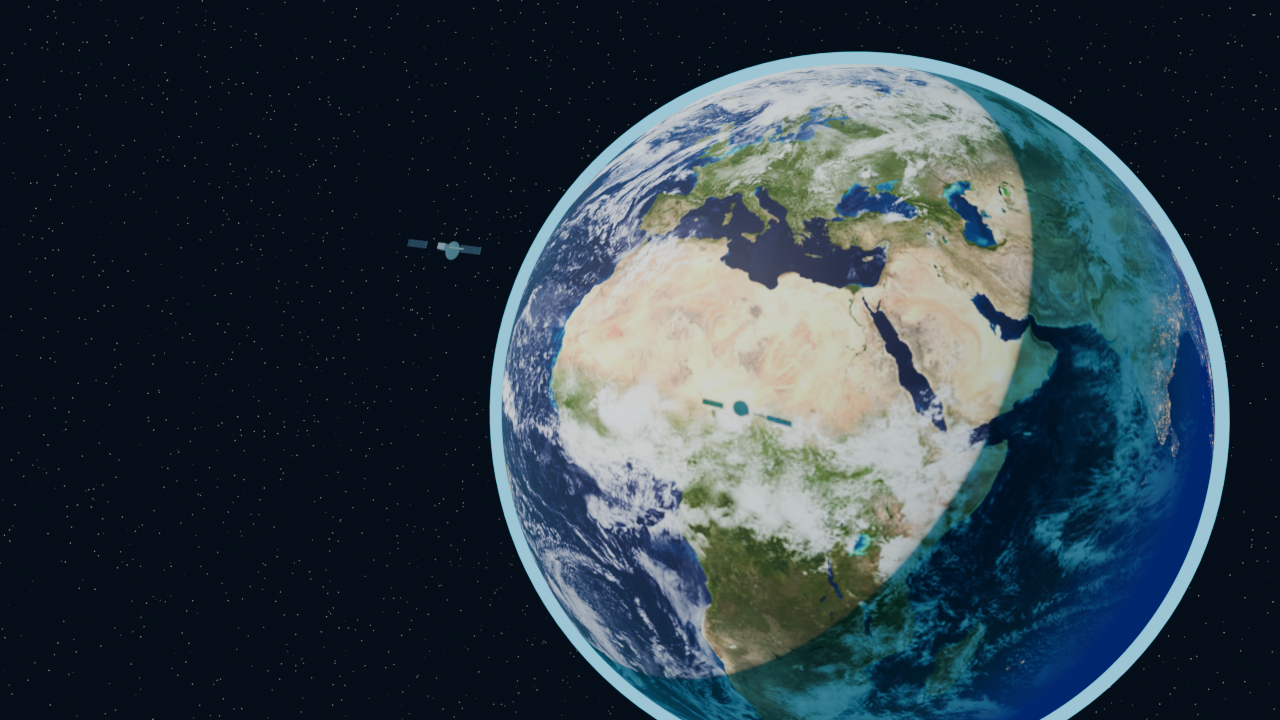
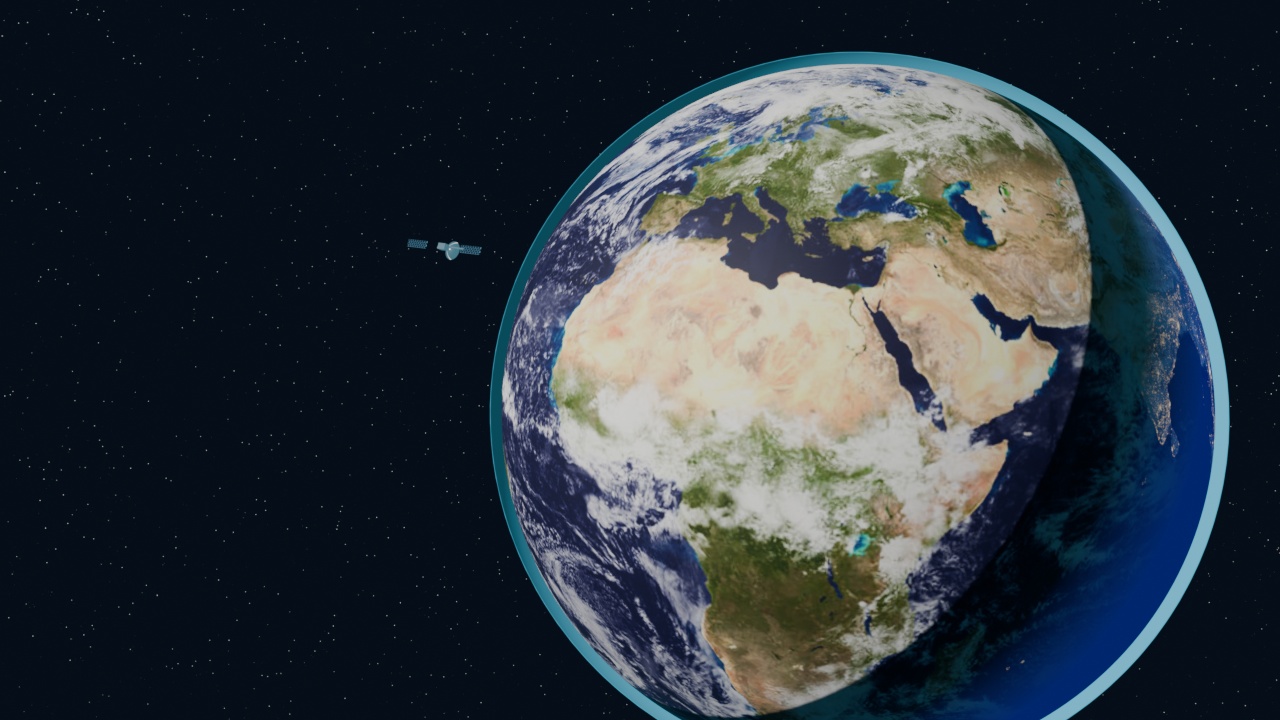
fix(web-hero-001b): visual-acceptance revision on satellite/atmosphere/starfield
Narrow polish pass on the reviewed WEB-HERO-001B scene; no composition,
geography, camera-path or scope change.

- suppress the satellite's cast shadow on Earth (visible_shadow=False on
  every part) -- it read as a stray planning-marker/overlay mark on the
  surface in review, not a deliberate detail;
- add a shared Fresnel-gated rim-light (_apply_rim_light) to the
  satellite hull and solar-panel materials for a cleaner silhouette at
  hero scale; enlarge/thicken the panel grid cells for a clearer read;
- thin and narrow the atmosphere rim, and couple its emission strength to
  the same sun-direction term the Earth terminator uses, so it fades on
  the night limb instead of glowing at a uniform detached strength;
- rebuild the starfield as two brightness-varied Voronoi layers plus a
  faint large-scale depth drift, replacing the single uniform-threshold
  layer that read as an obviously repeating procedural grid.

Re-rendered and replaced the three committed representative Cycles
evidence stills at the same frames. Phase A validator (81 checks) and
benchmark re-verified green, since the touched builder functions are
shared with benchmark_neutral.

diff --git a/hero/scripts/build_scene.py b/hero/scripts/build_scene.py
@@ -92,10 +92,52 @@ def _load_image(filename: str):
 # Materials
 # ---------------------------------------------------------------------------
 
+def _apply_rim_light(nt, spec: dict, scene_config: dict, base_shader_socket):
+    """Mix a thin Fresnel-gated edge light on top of an existing shader
+    output, and rewire Material Output to the result. A small hard-surface
+    prop (the satellite) needs this to keep a crisp, legible silhouette
+    against both deep space and a bright sunlit Earth at hero scale; a bare
+    Principled BSDF alone reads as a flat dark blob at that size. No-op
+    (returns the input unchanged) when the spec has no rim_light_color_ref.
+    """
+    rim_ref = spec.get("rim_light_color_ref")
+    if not rim_ref:
+        return base_shader_socket
+
+    nodes, links = nt.nodes, nt.links
+    output = nodes.get("Material Output")
+    rim_color = hc.palette_color(scene_config, rim_ref)
+
+    fresnel = nodes.new("ShaderNodeFresnel")
+    fresnel.location = (-250, -450)
+    fresnel.inputs["IOR"].default_value = float(spec.get("rim_light_ior", 2.2))
+
+    sharpen = nodes.new("ShaderNodeMapRange")
+    sharpen.location = (-50, -450)
+    sharpen.inputs["From Min"].default_value = float(spec.get("rim_light_falloff_min", 0.55))
+    sharpen.inputs["From Max"].default_value = 1.0
+    sharpen.clamp = True
+    links.new(fresnel.outputs["Fac"], sharpen.inputs["Value"])
+
+    rim_emission = nodes.new("ShaderNodeEmission")
+    rim_emission.location = (150, -450)
+    rim_emission.inputs["Color"].default_value = _rgba(rim_color)
+    rim_emission.inputs["Strength"].default_value = float(spec.get("rim_light_strength", 1.2))
+
+    rim_mix = nodes.new("ShaderNodeMixShader")
+    rim_mix.location = (550, -200)
+    links.new(sharpen.outputs["Result"], rim_mix.inputs["Fac"])
+    links.new(base_shader_socket, rim_mix.inputs[1])
+    links.new(rim_emission.outputs["Emission"], rim_mix.inputs[2])
+    links.new(rim_mix.outputs["Shader"], output.inputs["Surface"])
+    return rim_mix.outputs["Shader"]
+
+
 def _build_principled_material(name: str, spec: dict, scene_config: dict):
     material = bpy.data.materials.new(name=name)
     material.use_nodes = True
-    bsdf = material.node_tree.nodes.get("Principled BSDF")
+    nt = material.node_tree
+    bsdf = nt.nodes.get("Principled BSDF")
     if bsdf is None:
         return material
 
@@ -110,6 +152,8 @@ def _build_principled_material(name: str, spec: dict, scene_config: dict):
         if not _set_input(bsdf, "Emission Color", _rgba(emission)):
             _set_input(bsdf, "Emission", _rgba(emission))
         _set_input(bsdf, "Emission Strength", float(spec.get("emission_strength", 1.0)))
+
+    _apply_rim_light(nt, spec, scene_config, bsdf.outputs["BSDF"])
     return material
 
 
@@ -203,10 +247,21 @@ def _build_earth_material(name: str, spec: dict, scene_config: dict, sun_directi
     return material
 
 
-def _build_atmosphere_material(name: str, spec: dict, scene_config: dict):
+def _build_atmosphere_material(name: str, spec: dict, scene_config: dict, sun_direction):
     """Fresnel rim-glow shell: transparent facing the camera, emissive at
     grazing angles, so the atmosphere reads as a limb glow that visibly
     follows the globe instead of a flat neon outline.
+
+    The grazing-angle (Fresnel) factor alone made every previous version of
+    this shell glow at an equally uniform, thick, all-the-way-round
+    brightness regardless of where the sun was -- exactly the "detached
+    graphic outline" look this was flagged for. A real limb glow is
+    sunlight scattering in the atmosphere, so it must fade out on the night
+    side: the emission's *strength* (not the transparent/emissive mix
+    itself, which stays a pure viewing-angle effect) is additionally scaled
+    by the same dot(normal, sun_direction) term the Earth material uses,
+    remapped so the day limb stays bright and the night limb only keeps a
+    faint terminator-adjacent hint rather than going fully dark.
     """
     material = bpy.data.materials.new(name=name)
     material.use_nodes = True
@@ -215,16 +270,45 @@ def _build_atmosphere_material(name: str, spec: dict, scene_config: dict):
     nodes.clear()
 
     output = nodes.new("ShaderNodeOutputMaterial")
-    output.location = (600, 0)
+    output.location = (750, 0)
 
     transparent = nodes.new("ShaderNodeBsdfTransparent")
     transparent.location = (0, -150)
 
     emission = nodes.new("ShaderNodeEmission")
-    emission.location = (0, 150)
+    emission.location = (150, 150)
     color = hc.palette_color(scene_config, spec.get("rim_color_ref", "atmosphere_cyan"))
     emission.inputs["Color"].default_value = _rgba(color)
-    emission.inputs["Strength"].default_value = float(spec.get("strength", 2.4))
+
+    day_gate = nodes.new("ShaderNodeMath")
+    day_gate.operation = "MULTIPLY"
+    day_gate.location = (-50, 300)
+    day_gate.inputs[0].default_value = float(spec.get("strength", 1.6))
+    links.new(day_gate.outputs["Value"], emission.inputs["Strength"])
+
+    geometry = nodes.new("ShaderNodeNewGeometry")
+    geometry.location = (-450, 400)
+    sun_vec = nodes.new("ShaderNodeCombineXYZ")
+    sun_vec.location = (-450, 550)
+    sun_vec.inputs[0].default_value = float(sun_direction[0])
+    sun_vec.inputs[1].default_value = float(sun_direction[1])
+    sun_vec.inputs[2].default_value = float(sun_direction[2])
+    sun_dot = nodes.new("ShaderNodeVectorMath")
+    sun_dot.operation = "DOT_PRODUCT"
+    sun_dot.location = (-250, 450)
+    links.new(geometry.outputs["Normal"], sun_dot.inputs[0])
+    links.new(sun_vec.outputs["Vector"], sun_dot.inputs[1])
+
+    night_hint = float(spec.get("night_hint", 0.12))
+    day_night_gate = nodes.new("ShaderNodeMapRange")
+    day_night_gate.location = (-50, 450)
+    day_night_gate.inputs["From Min"].default_value = -0.6
+    day_night_gate.inputs["From Max"].default_value = 0.3
+    day_night_gate.inputs["To Min"].default_value = night_hint
+    day_night_gate.inputs["To Max"].default_value = 1.0
+    day_night_gate.clamp = True
+    links.new(sun_dot.outputs["Value"], day_night_gate.inputs["Value"])
+    links.new(day_night_gate.outputs["Result"], day_gate.inputs[1])
 
     fresnel = nodes.new("ShaderNodeFresnel")
     fresnel.location = (-250, 0)
@@ -239,7 +323,7 @@ def _build_atmosphere_material(name: str, spec: dict, scene_config: dict):
     falloff.clamp = True
 
     mix = nodes.new("ShaderNodeMixShader")
-    mix.location = (300, 0)
+    mix.location = (450, 0)
 
     links.new(fresnel.outputs["Fac"], falloff.inputs["Value"])
     links.new(falloff.outputs["Result"], mix.inputs["Fac"])
@@ -298,6 +382,8 @@ def _build_solar_panel_material(name: str, spec: dict, scene_config: dict):
     links.new(bsdf.outputs["BSDF"], mix.inputs[1])
     links.new(grid_emission.outputs["Emission"], mix.inputs[2])
     links.new(mix.outputs["Shader"], output.inputs["Surface"])
+
+    _apply_rim_light(nt, spec, scene_config, mix.outputs["Shader"])
     return material
 
 
@@ -308,7 +394,7 @@ def _build_material(name: str, spec: dict, scene_config: dict, sun_direction=(0.
     if kind == "earth_day_night":
         return _build_earth_material(name, spec, scene_config, sun_direction)
     if kind == "atmosphere_shell":
-        return _build_atmosphere_material(name, spec, scene_config)
+        return _build_atmosphere_material(name, spec, scene_config, sun_direction)
     if kind == "solar_panel":
         return _build_solar_panel_material(name, spec, scene_config)
     raise ValueError("unsupported material type " + repr(kind) + " for " + name)
@@ -360,6 +446,17 @@ def _build_satellite(spec: dict, materials: dict):
     panel_material = materials.get(spec.get("panel_material"))
     dish_material = materials.get(spec.get("dish_material"), bus_material)
 
+    # This lane is pre-data: a satellite silhouette cast onto Earth as a real
+    # shadow reads, at review size, like a stray AOI/placement marker rather
+    # than an intentional camera-framing beauty detail. Suppress shadow rays
+    # from every satellite part so the satellite still looks correctly lit
+    # itself but never marks the surface below it.
+    def _no_cast_shadow(obj):
+        try:
+            obj.visible_shadow = False
+        except AttributeError:
+            pass
+
     bpy.ops.mesh.primitive_cube_add(size=1.0)
     bus = bpy.context.active_object
     bus.name = spec["id"] + "_bus"
@@ -369,6 +466,7 @@ def _build_satellite(spec: dict, materials: dict):
         polygon.use_smooth = False
     if bus_material:
         bus.data.materials.append(bus_material)
+    _no_cast_shadow(bus)
 
     for side, sign in (("pos", 1.0), ("neg", -1.0)):
         bpy.ops.mesh.primitive_cube_add(size=1.0)
@@ -379,6 +477,7 @@ def _build_satellite(spec: dict, materials: dict):
         panel.location = (sign * (bus_size[0] / 2 + panel_size[0] / 2 + 0.015), 0.0, 0.0)
         if panel_material:
             panel.data.materials.append(panel_material)
+        _no_cast_shadow(panel)
 
     bpy.ops.mesh.primitive_cone_add(
         radius1=dish_radius, radius2=dish_radius * 0.12, depth=dish_radius * 0.55, vertices=28
@@ -393,6 +492,7 @@ def _build_satellite(spec: dict, materials: dict):
         polygon.use_smooth = True
     if dish_material:
         dish.data.materials.append(dish_material)
+    _no_cast_shadow(dish)
 
     bpy.ops.mesh.primitive_cylinder_add(radius=0.012, depth=bus_size[2] * 1.6, vertices=10)
     boom = bpy.context.active_object
@@ -402,6 +502,7 @@ def _build_satellite(spec: dict, materials: dict):
     boom.location = (bus_size[0] / 2 + bus_size[2] * 0.8, 0.0, 0.0)
     if bus_material:
         boom.data.materials.append(bus_material)
+    _no_cast_shadow(boom)
 
     scale = float(spec.get("scale", 1.0))
     root.scale = (scale, scale, scale)
@@ -574,37 +675,104 @@ def _build_world(scene_config: dict, scene_spec: dict | None = None) -> None:
     stars = world_spec.get("stars")
     if stars and stars.get("enabled", True):
         tex_coord = nodes.new("ShaderNodeTexCoord")
-        tex_coord.location = (-900, -300)
-
-        voronoi = nodes.new("ShaderNodeTexVoronoi")
-        voronoi.location = (-650, -300)
-        try:
-            voronoi.voronoi_dimensions = "3D"
-        except TypeError:
-            pass
-        _set_input(voronoi, "Scale", float(stars.get("scale", 260.0)))
-        _set_input(voronoi, "Randomness", float(stars.get("randomness", 1.0)))
-
-        star_ramp = nodes.new("ShaderNodeValToRGB")
-        star_ramp.location = (-400, -300)
-        threshold = float(stars.get("point_size", 0.045))
+        tex_coord.location = (-1100, -300)
         star_color = hc.palette_color(scene_config, stars.get("color_ref", "neutral_light"))
-        star_ramp.color_ramp.elements[0].position = 0.0
-        star_ramp.color_ramp.elements[0].color = _rgba(star_color)
-        star_ramp.color_ramp.elements[1].position = max(0.001, threshold)
-        star_ramp.color_ramp.elements[1].color = (0.0, 0.0, 0.0, 1.0)
+
+        def _star_layer(y, scale, point_size, brightness_lo, brightness_hi):
+            # A single uniform Voronoi threshold makes every point the same
+            # size and brightness, which reads as an obvious repeating grid
+            # ("procedural cheapness"/banding) rather than a real field. Each
+            # layer instead pulls its own per-cell brightness from Voronoi's
+            # Color output, so points vary the way real star magnitudes do.
+            voronoi = nodes.new("ShaderNodeTexVoronoi")
+            voronoi.location = (-850, y)
+            try:
+                voronoi.voronoi_dimensions = "3D"
+            except TypeError:
+                pass
+            _set_input(voronoi, "Scale", float(scale))
+            _set_input(voronoi, "Randomness", 1.0)
+
+            ramp = nodes.new("ShaderNodeValToRGB")
+            ramp.location = (-600, y)
+            ramp.color_ramp.elements[0].position = 0.0
+            ramp.color_ramp.elements[0].color = (1.0, 1.0, 1.0, 1.0)
+            ramp.color_ramp.elements[1].position = max(0.001, float(point_size))
+            ramp.color_ramp.elements[1].color = (0.0, 0.0, 0.0, 1.0)
+            distance_out = "Distance" if "Distance" in voronoi.outputs else voronoi.outputs[0].name
+            links.new(voronoi.outputs[distance_out], ramp.inputs["Fac"])
+
+            brightness = nodes.new("ShaderNodeMapRange")
+            brightness.location = (-600, y - 130)
+            brightness.inputs["From Min"].default_value = 0.0
+            brightness.inputs["From Max"].default_value = 1.0
+            brightness.inputs["To Min"].default_value = float(brightness_lo)
+            brightness.inputs["To Max"].default_value = float(brightness_hi)
+            color_out = "Color" if "Color" in voronoi.outputs else voronoi.outputs[-1].name
+            separate = nodes.new("ShaderNodeSeparateColor")
+            separate.location = (-750, y - 130)
+            links.new(voronoi.outputs[color_out], separate.inputs["Color"])
+            links.new(separate.outputs[0], brightness.inputs["Value"])
+
+            point_mask = nodes.new("ShaderNodeMath")
+            point_mask.operation = "MULTIPLY"
+            point_mask.location = (-350, y)
+            links.new(ramp.outputs["Color"], point_mask.inputs[0])
+            links.new(brightness.outputs["Result"], point_mask.inputs[1])
+            return point_mask
+
+        bright_layer = _star_layer(-250, stars.get("scale", 190.0), stars.get("point_size", 0.05), 0.5, 1.0)
+        dim_layer = _star_layer(-500, stars.get("scale", 190.0) * 2.4, stars.get("point_size", 0.05) * 0.55, 0.25, 0.55)
+
+        combine = nodes.new("ShaderNodeMath")
+        combine.operation = "MAXIMUM"
+        combine.location = (-150, -350)
+        links.new(bright_layer.outputs["Value"], combine.inputs[0])
+        links.new(dim_layer.outputs["Value"], combine.inputs[1])
 
         star_emission = nodes.new("ShaderNodeBackground")
-        star_emission.location = (-150, -300)
-        star_emission.inputs["Strength"].default_value = float(stars.get("strength", 5.0))
+        star_emission.location = (250, -300)
+        star_emission.inputs["Color"].default_value = _rgba(star_color)
+        star_emission.inputs["Strength"].default_value = 0.0
+
+        multiply_strength = nodes.new("ShaderNodeMath")
+        multiply_strength.operation = "MULTIPLY"
+        multiply_strength.location = (50, -450)
+        multiply_strength.inputs[1].default_value = float(stars.get("strength", 4.0))
+        links.new(combine.outputs["Value"], multiply_strength.inputs[0])
+
+        # A large-scale, very-low-contrast brightness drift across the sky
+        # ("restrained star/nebula depth") so the field doesn't look like a
+        # flat, uniformly-lit decal.
+        depth_noise = nodes.new("ShaderNodeTexNoise")
+        depth_noise.location = (-850, -650)
+        _set_input(depth_noise, "Scale", 1.4)
+        _set_input(depth_noise, "Detail", 2.0)
+        links.new(tex_coord.outputs["Generated"], depth_noise.inputs["Vector"])
+        depth_range = nodes.new("ShaderNodeMapRange")
+        depth_range.location = (-600, -650)
+        depth_range.inputs["From Min"].default_value = 0.3
+        depth_range.inputs["From Max"].default_value = 0.7
+        depth_range.inputs["To Min"].default_value = 0.75
+        depth_range.inputs["To Max"].default_value = 1.15
+        depth_range.clamp = True
+        fac_name = "Fac" if "Fac" in depth_noise.outputs else depth_noise.outputs[0].name
+        links.new(depth_noise.outputs[fac_name], depth_range.inputs["Value"])
+
+        depth_multiply = nodes.new("ShaderNodeMath")
+        depth_multiply.operation = "MULTIPLY"
+        depth_multiply.location = (250, -450)
+        links.new(multiply_strength.outputs["Value"], depth_multiply.inputs[0])
+        links.new(depth_range.outputs["Result"], depth_multiply.inputs[1])
+        links.new(depth_multiply.outputs["Value"], star_emission.inputs["Strength"])
+
+        # Wire each layer's own Voronoi vector input from the shared coord.
+        for node in nodes:
+            if node.bl_idname == "ShaderNodeTexVoronoi" and not node.inputs["Vector"].links:
+                links.new(tex_coord.outputs["Generated"], node.inputs["Vector"])
 
         add_shader = nodes.new("ShaderNodeAddShader")
-        add_shader.location = (200, 0)
-
-        links.new(tex_coord.outputs["Generated"], voronoi.inputs["Vector"])
-        distance_output = "Distance" if "Distance" in voronoi.outputs else voronoi.outputs[0].name
-        links.new(voronoi.outputs[distance_output], star_ramp.inputs["Fac"])
-        links.new(star_ramp.outputs["Color"], star_emission.inputs["Color"])
+        add_shader.location = (450, 0)
         links.new(background.outputs["Background"], add_shader.inputs[0])
         links.new(star_emission.outputs["Background"], add_shader.inputs[1])
         links.new(add_shader.outputs["Shader"], output.inputs["Surface"])

diff --git a/CHANGELOG.md b/CHANGELOG.md
@@ -1,5 +1,15 @@
 # Changelog
 
+## v0.7.1-web-hero-001b-visual-revision — 2026-09-16 (WEB-HERO-001B visual-acceptance revision, branch `feat/web-hero-001-predata-scene`)
+
+Narrow visual-polish revision on the reviewed WEB-HERO-001B scene; no composition, geography, camera-path, or scope change.
+
+- satellite no longer casts a shadow onto Earth (`visible_shadow = False` on every satellite part) — at review size the cast shadow read as a stray planning-marker/overlay mark on the surface rather than a deliberate detail, so it is suppressed;
+- satellite hull and solar panels gain a shared, reusable Fresnel-gated rim-light (`_apply_rim_light`) so the satellite keeps a crisp, legible silhouette against both deep space and sunlit Earth; panel grid cells enlarged (`cell_scale` 7→4) and thickened for clearer "solar panel" read at hero scale;
+- atmosphere rim narrowed and thinned (`falloff_min` 0.25→0.45, `fresnel_ior` 1.15→1.08, `strength` 2.4→1.5) and, more importantly, now scales with the same sun-direction term the Earth material's terminator uses, so the glow is bright on the day limb and fades to a faint hint on the night limb instead of a uniform, physically-detached outline;
+- starfield rebuilt as two Voronoi layers (bright/sparse + dim/dense) with per-star brightness pulled from Voronoi's own colour output, plus a very-low-contrast large-scale noise brightness drift ("restrained star/nebula depth" from the original locked composition) — replaces the single uniform-threshold layer that read as an obviously repeating procedural grid;
+- three representative Cycles evidence stills re-rendered and replaced in `hero/evidence/` at the same frames (1/60/120); Phase A validator (81 checks) and benchmark re-verified green, since the touched builder functions are shared with the `benchmark_neutral` scene.
+
 ## v0.7.0-web-hero-001b-earth-satellite — 2026-09-15 (WEB-HERO-001B, branch `feat/web-hero-001-predata-scene`)
 
 - accepted the WEB-HERO-001A production scaffold and benchmark at `81a0b89`; implemented WEB-HERO-001B on the same branch;

diff --git a/STATUS.md b/STATUS.md
@@ -91,6 +91,14 @@ procedural and introduce no further external asset. Three representative Cycles 
 No AOI footprint, scan geometry or scientific layer was introduced. The Phase A benchmark scene
 and validator (81 checks) were re-run clean after these changes.
 
+**Visual-acceptance revision (2026-09-16):** satellite no longer casts a shadow onto Earth (read as
+a stray planning-marker in review); satellite hull/panels gained a shared Fresnel rim-light for a
+cleaner hero-scale silhouette; the atmosphere rim is thinner and now scales with the same
+sun-direction term the Earth terminator uses, instead of glowing at a uniform detached strength;
+the starfield is two brightness-varied Voronoi layers plus a faint large-scale depth drift instead
+of one uniform-threshold layer. No composition, geography, camera-path or scope change; the three
+representative stills were re-rendered and replaced. See `CHANGELOG.md`.
+
 Phase graph:
 
 `WEB-HERO-001A / MER-98` → `WEB-HERO-001B / MER-99` → `WEB-HERO-001C / MER-100` → `WEB-HERO-001D / MER-101`
